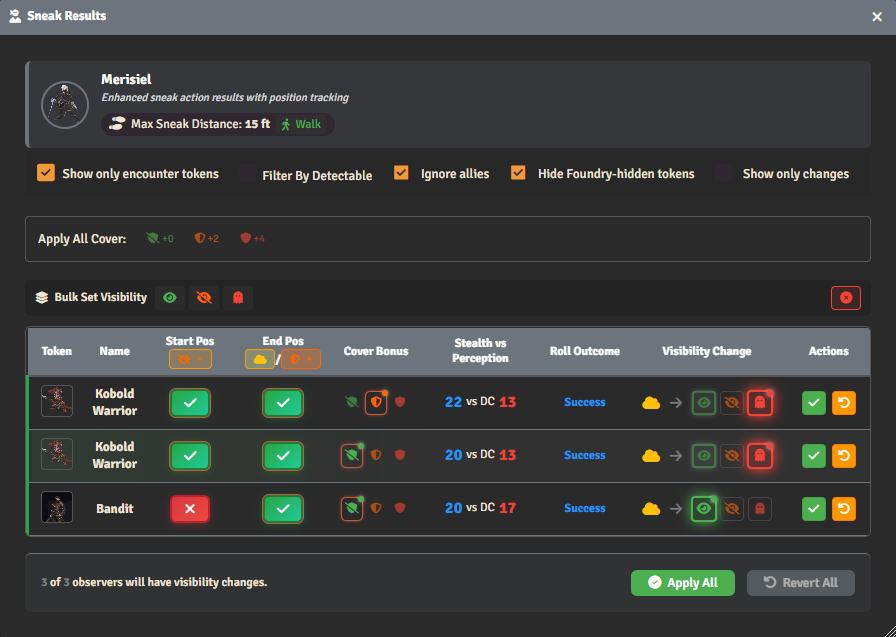
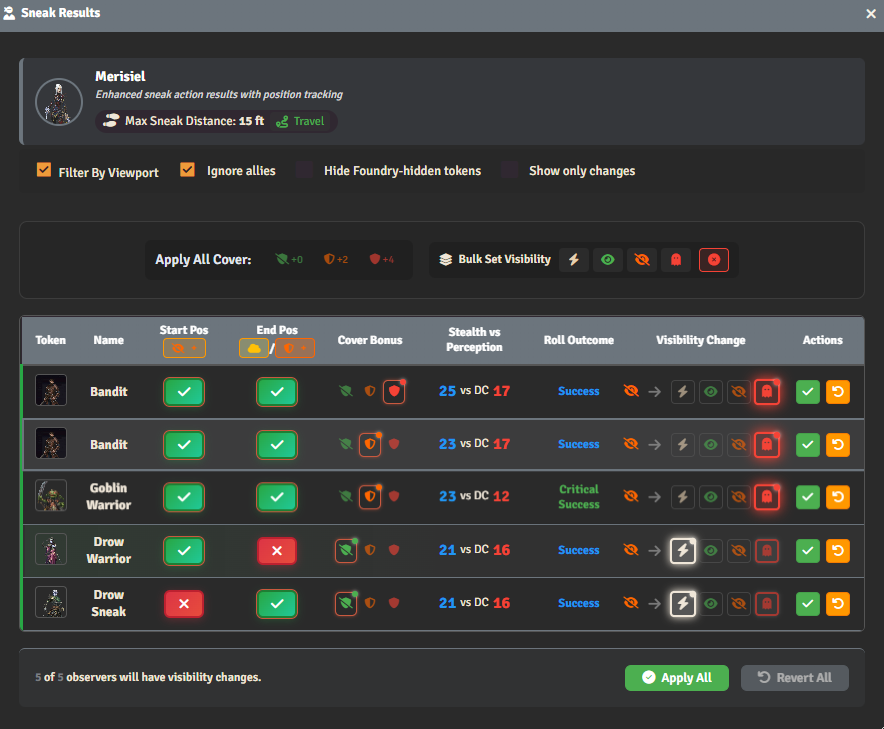
bunch of misc stuff- coming in on homestretch

diff --git a/AVS.md b/AVS.md
@@ -1,1 +1,54 @@
-no data yet
+# Overview
+AVS (Automatic Vision System) actually covers more than just vision. It is a comprehensive system for tracking observation between tokens based on a variety of environmental factors, effects and conditions, and senses. When AVS is active, users will still need to make manual adjustments, but AVS is designed to minimize the workload due to lighting, concealment regions, and other common ambient factors.
+
+In the following example, AVS is active and being used to manage how the Goblin Warrior sees Erzen:
+
+![AVS in Visioner Manager](images/avs/avs-visioner-manager.png)
+
+Lighting conditions, impairment to the sense used, or a region of concealment is rendering Erzen concealed to the Goblin. The lightning bolt icon in Visibility State column indicates that AVS is controlling the visibility state, and is subject to change as the position of either token or conditions on the scene change. Current state will indicate the state of observation that AVS has calculated, with a chip indicating that the state is being managed by AVS.
+
+Merisiel, on the other hand, is manually set to Observed. Manual "overrides" are important and common even when AVS is enabled both for enforcing GM discretion, or because an action has been taken which influences observation outside the scope of ambient conditions. In order to turn control of the token pair back over to AVS, the GM will often use the [Change Validation Manager,](#change-validation-manager) which will prompt them to revert to AVS as tokens are moved or conditions change. 
+
+>> [!NOTE]
+>> In addition to relying on the validation manager's prompts, the GM may return observation control to AVS at any time from the Vision Manager by selecting the lighting bolt and clicking apply.
+
+# AVS and the Senses
+While a large focus of AVS is on perception through vision, AVS supports all pf2e senses to a degree (with full and automated support for every sense forthcoming.) When multiple precise senses are available, and one is impaired or deactivated, AVS will "use" the best functioning precise sense available. If no precise senses are available, AVS will fall back to imprecise senses applying RAW.
+
+For example, a creature with precise echolocation will still "see" tokens as Observed even in darkness, through smoke or mist, or if blinded. The Foundry UI will reflect vision impairment, but the Visioner observation state will correctly remain observed for the sake of other module mechanics.
+
+Several of the senses, such as tremorsense and lifesense, have their base system functionality extended in some way by AVS. The breadth of these improvements is beyond the scope if this page, but each will [have their own documentation here.](Senses.md)
+
+# Lighting
+
+Especially in cases where vision is an actor's main means of perception, lighting plays a key role in determining degrees of observation, and this is an area where AVS can be exceptionally helpful. Actors without low-light vision or darkvision will automatically see tokens that are in low light as concealed and tokens that are in unlit areas as hidden.  
+
+MORE GOES HERE 
+
+# Darkness
+
+FILL IN
+
+# AVS and Regions
+**Visioner adds support for two types of region behavior to Foundry's existing region system:**
+
+## AVS Concealment
+AVS Concealment regions are areas that AVS can use to automatically apply concealment between tokens. Unlike most regions, AVS Concealment regions do not require region triggers (e.g. `Enter Region`) because, like magical darkness, they are detected by the module using ray casting. This allows the module to use regions of concealment that exist between tokens to apply concealment, even if neither token crosses their border. For users using AVS, this makes these regions ideal for smoke bombs, mist spells, and other areas of effect that conceal when viewed through.
+
+![Concealment Region](images/avs/concealment-region.png)
+
+In the above figure, a concealment region represents an area of mist. AVS reports the top two tokens as observed to one another. All other tokens are concealed from one another as they observe the others through the mist.
+
+Concealment regions do not function as a hard override but instead interact with all other considerations the module makes. In the example above, if Merisiel (the token in the center of the region) were granted precise echolocation she would automatically observe all the tokens around her as Observed, and yet would remain concealed to all of them.
+
+## Visioner Visibility
+Visioner Visibility regions confer hard-overridden observation states between tokens within the region and tokens without. These regions require using Foundry [Scene Region Events](https://foundryvtt.com/article/scene-regions/#:~:text=information%20about%20them.-,Scene%20Region%20Events,-Behaviors%20can%20check) as triggers, the most common of which are `Token Enters` and `Token Exits`. 
+
+In the region configuration window the following options are available:
+- **Visibility State:** Select from one of the four major pf2e Observation States managed by Visioner (Observed, Concealed, Hidden, or Unobserved) to set a hard override the region should confer, or select AVS to automatically remove existing hard overrides.
+- **Apply to Inside Tokens:** If enabled, tokens inside the region will have the selected Visibility State applied vs other tokens *inside* the region.
+- **Two-Way Region:** If enabled, tokens outside the region will also have the visibility state applied vs token inside the region.
+
+| Example Region Behavior | View from Inside Region | View from Outside Region |
+| --- | --- | --- |
+| ![Visibility Region Config](images/avs/visioner-visibility-region-config.png) | ![Visibility Region Inside View](images/avs/visioner-visibility-region-inside.png) | ![Visibility Region Outside View](images/avs/visioner-visibility-region-outside.png) |

diff --git a/Actions.md b/Actions.md
@@ -18,7 +18,7 @@ Each action dialog is able to filter results based on a number of criteria repre
 
 | Filter | Description |
 | --- | --- |
-|**Filter by Detectable** | Tokens that are not detectable by the acting token (e.g. due to distance, or being in a different elevation layer) are filtered out of the results. This is particularly useful on large maps with many tokens.|
+|**Filter by Viewport** | Only tokens that are within the visible range of the GM's screen will be shown in the dialog and acted upon. This prevents tokens that are not Foundry-hidden but well outside of the immediate "action" from impacting workflow and performance. |
 |**Hide Foundry-Hidden Tokens** | Tokens that have their visibility state toggled off by Foundry core are generally precluded from Visioner consideration in auto-cover and AVS, and may also be filtered from dialog boxes. This is particularly helpful on large maps with many tokens placed as Foundry-Hidden for setup.|
 | **Ignore Allies** | Do not view or manipulate visibility states between allies (e.g. sneaking and becoming undetected by fellow party members.) |
 | **Show Only Changes** | Filter out token-pair rows in the table in which the visibility state does not change. |
@@ -31,15 +31,11 @@ When an actor `hidden` to or `undetected` by a target token attacks, they lose t
 
 ![Attack Consequences Chat](images/actions/attack_consequences_chat.png) 
 
-`Apply Changes` applies the default recommendations without opening the dialog. For most actions, that would mean accepting the visibility changes recommended based on RAW and auto-detected conditions. For Attack Consequences, the default behavior (with AVS turned on) would remove any forced visibility state like `hidden` or `undetected` and allow AVS to decide based on environmental conditions on the scene.
+`Apply Changes` applies the default recommendations without opening the dialog. For most actions, that would mean accepting the visibility changes recommended based on RAW and auto-detected conditions. For Attack Consequences, the default behavior (with AVS turned on) would remove any forced visibility state like `hidden` or `undetected` and allow AVS to decide observation states based on environmental conditions on the scene.
 
 **Attack Consequences Dialog:**
 
 ![Attack Consequences Dialog](images/actions/attack_consequences_dialog.png)
-
-> [!IMPORTANT]
-> The Remove Overrides button displayed above exists conditionally when AVS is turned on. It is intended this is the default when playing with AVS, as it will remove visibility states from the target token. This means instead of forcing a visibility state of `observed` as a consequence of attacking, lighting conditions etc. Will still apply.
-> In the absence of AVS, the recommendation will default to `observed` and the GM will need to account for ambient conditions manually before accepting* 
 
 # Create a Diversion
 When a player uses the Create a Diversion action, Visioner injects a callout into the associated chat card so the GM is able to quickly adjust visibility accordingly:
@@ -141,3 +137,8 @@ Visioner determines that movement has ended when the GM uses `Open Sneak Results
 When a player uses the Take Cover action, Visioner injects a callout into the associated chat card so the GM is able to quickly adjust cover accordingly:
 
 ![Take Cover Results](images/actions/take_cover_results_dialog.png)
+
+>> [!NOTE]
+>> We try to reduce the amount of adjustments needed to help the module run smoothly to a bare minimum; however, it may prove beneficial to remove the self-applied pf2e system cover condition from the action granted to player characters.
+>> 
+>> This will prevent the system from applying a blanket cover effect when Visioner's relational cover is more accurate.

diff --git a/Feats-and-Features.md b/Feats-and-Features.md
@@ -4,10 +4,14 @@ PF2e Visioner hardcodes accommodations for Pathfinder 2e feats and features that
 Homebrew feats may eventually receive support for similar functionality through the use of custom Rule Elements at later stages of development.
 
 
-> [!NOTE]
+> [!IMPORTANT]
 > Feats that require or upgrade other feats as prerequisites are marked as such to make them easier to follow; however, the module does not enforce these prerequisites.
 >
 > PF2e Visioner does not attempt to enforce movement limits, but does add a reminder of max movement when taking the Sneak action.
+
+### Camouflage
+- Informative text added to Hide and Sneak Results dialogs informing GM validation may be modified by feat
+- Within Results dialogs: prerequisites for Hide, End Position prerequisites for Sneak, are ignored for the purpose of validating the roll result.
 
 ### Ceaseless Shadows
 Requires [Distracting Shadows](#distracting-shadows)
@@ -19,6 +23,10 @@ Requires [Distracting Shadows](#distracting-shadows)
 ### Distracting Shadows
 - Chip added to Hide and Sneak Results dialog informing GM requirements may be modified by feat
 - Within Hide and Sneak results dialogs: for the purposes of requirements, lesser cover granted by creatures at least one size larger satisfy the requirement
+
+### Keen Eyes
+- Adds a +2 bonus to Seek results made against targets that have Hidden or Undetected Visioner states vs the Seeker
+- pf2e system has an RE for this, but it only works against targets that have the blanket condition
 
 ### Legendary Sneak
 Requires [Swift Sneak](#swift-sneak)
@@ -45,6 +53,12 @@ Trigger: Token begins a Sneak within difficult terrain matching their chosen typ
 - Callout for Start Sneak adjusted to remind player that they will automatically succeed their Sneak so long as they follow the feat prerequisites.
 - If feat prerequisites are met, a chip is added to the Sneak Results dialog reminding the GM the recommendations may have changed due to the feat.
 - If feat prerequisites are met, recommendations are set to Undetected so long as Start and End Position requirements are met, regardless of Degree of Success.
+
+### That's Odd
+>> [NOTE!]
+>> We may be revising or removing the way this feat functions if we determine it doesn't quite fit the spirit of the Paizo description as written
+
+- All Seek Actions performed within range of an anomaly (Loot Token, Trap Token, or Visioner Hidden Wall) are treated as success
 
 ### Vanish into the Land
 Requires/ improves [Terrain Stalker](#terrain-stalker). 

diff --git a/Cover.md b/Cover.md
@@ -9,9 +9,21 @@ The `Advanced Wall Settings` menu within the Visioner specific wall options allo
 For more information about using Visioner's tools to customize wall segments [see here](Wall-Settings.md).
 
 ## Wall Height Support
-[FILL IN WHEN ROI IMPLEMENTS HEIGHT SUPPORT]
+>> [NOTE!]
+>> Wall Height support may be released with 4.0.0 without documentation due to newness, or may be released at a later time
 
 # Manual Cover Adjustments
+**There are several places where manual adjustments to cover can be made:**
+## Visioner Manager 
+A cover tab exists in the [Visioner Manger](Visioner-Manager.md) allowing manual adjustments between token pairs, much like the observation states.
 
-## Visioner Manager
-The [Visioner Manager](Visioner-Manager.md) provides a centralized location for GMs to manage token visibility and cover.
+## Roll Dialogs
+When making a roll where cover factors into a calculated bonus, the ability to quickly adjust cover appears on the roll dialog as follows:
+
+![Roll Cover Override](images/cover/cover-override-roll.png)
+
+In Roll Dialog cover overrides, the cover level calculated by the system will be preselected, but clicking on a different button overrides the cover passed to the system for the purpose of bonuses.
+
+**Reminder:**
+- For actions taken (such as attacks) where the cover of the target from the origin token impacts its AC, overriding to a greater level of cover will benefit the target.
+- For actions taken (such as Hide) where the cover of the origin token from its targets impacts a bonus to the action roll, overriding to a greater level of cover will benefit the origin token.

diff --git a/Visioner-Manager.md b/Visioner-Manager.md
@@ -4,15 +4,16 @@ The Visioner Manager provides a centralized location for GMs to manage token vis
 
 Both visibility and cover states may be viewed and manipulated, and each of those either as the Observer or as the Target.
 
-![Vision Token Manager](images/token-manager/token_manager.png)
+![Visioner Manager](images/visioner-manager/visioner-manager.png)
+
 
 # Quick Edit
 
-![Quick Edit Dialog](images/token-manager/quick_edit.png)
+![Quick Edit Dialog](images/visioner-manager/quick_edit.png)
 
 The Quick edit dialog is a lightweight version of the Visioner Manager which provides for making rapid manual adjustments to vision or cover states. The dialog may be brought up using a UI button injected into the Token Controls of the Foundry sidebar: 
 
-![UI Button](images/token-manager/quick_edit_ui_button.png)
+![UI Button](images/visioner-manager/quick_edit_ui_button.png)
 
 Alternatively, a hotkey may be assigned. You must select at least one token and one target.
 
